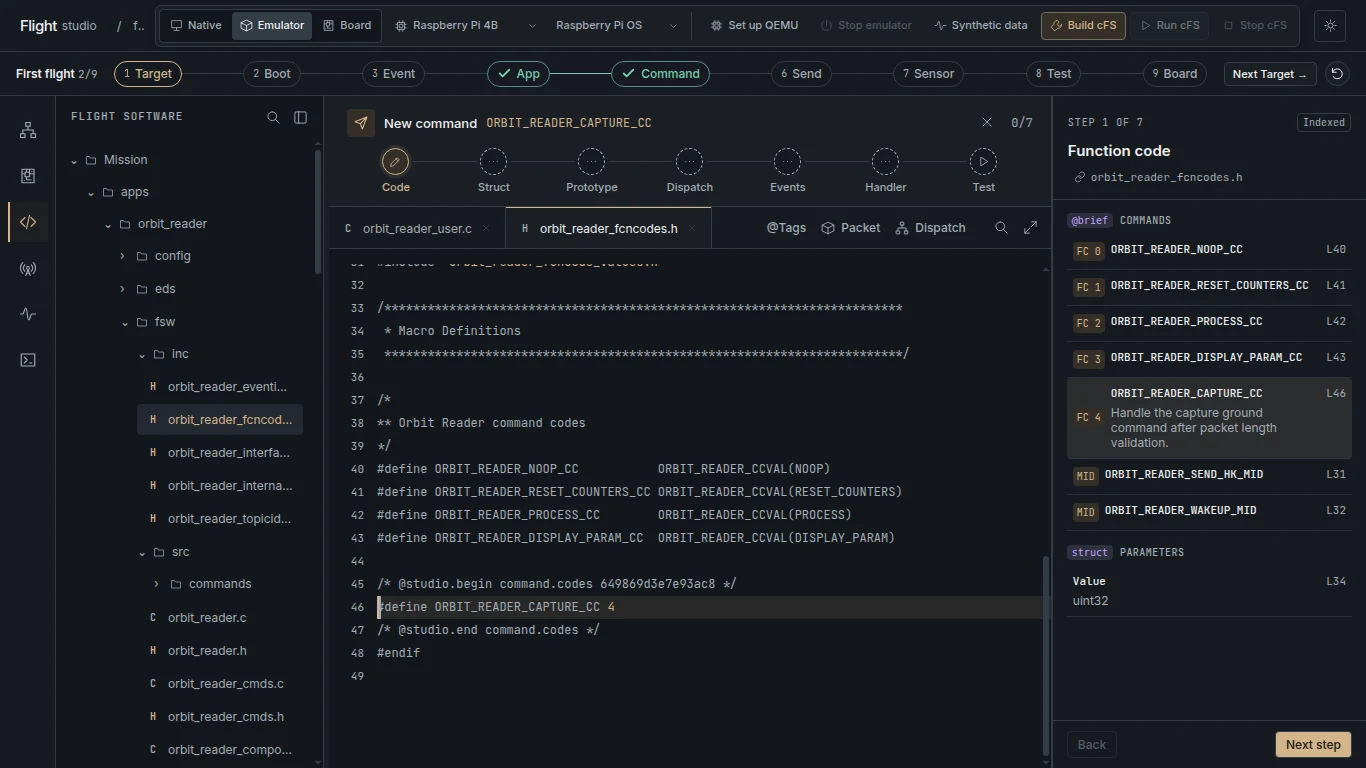
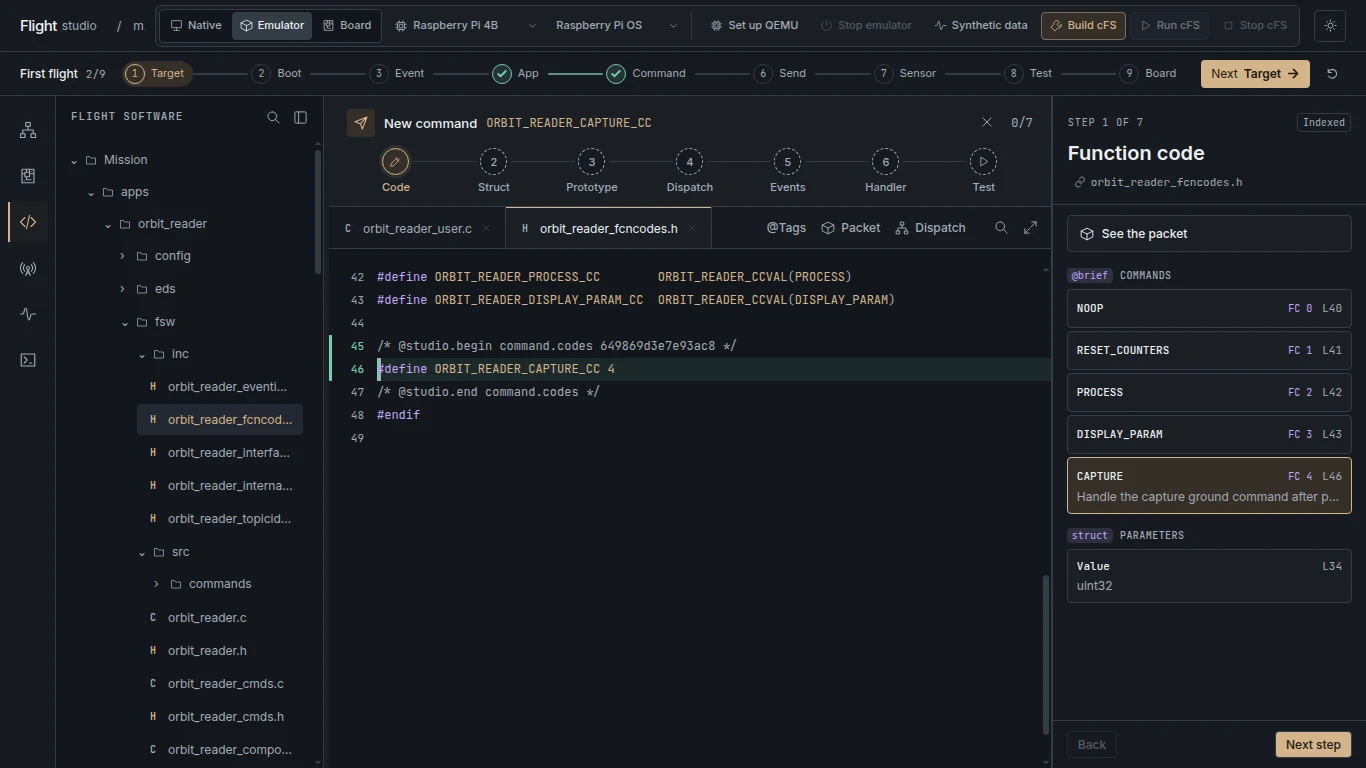
Guide authors to their command's actual lines and unimplemented handler

diff --git a/interface/static/source-guide.js b/interface/static/source-guide.js
@@ -77,7 +77,7 @@ export function commandContext(state) {
     if (!item || !sourcesFor(item).flat().some(ref=>ref.path===state.path)) return null;
   }
   if (!items.length) return null;
-  const selected=items.find(i=>selectKey(i)===state.sourceCommand) || items.find(i=>i.id===state.commandTask?.id && app.name===state.commandTask.app) || items[0];
+  const selected=items.find(i=>i.id===state.commandTask?.id && app.name===state.commandTask.app) || items.find(i=>selectKey(i)===state.sourceCommand) || items[0];
   const refs=sourcesFor(selected);
   const inferred=refs.findIndex(group=>group.some(ref=>ref.path===state.path));
   const explicit=state.sourceStep?.command===selectKey(selected) && state.sourceStep?.app===app.name;
@@ -95,7 +95,8 @@ export function syncCommandToFile(state, line) {
   const ctx=commandContext(state);
   if (!ctx) {state.sourceStep=null;return false;}
   const {app,items,selected}=ctx;
-  const ordered=[selected,...items.filter(i=>i!==selected)];
+  const active=state.commandTask?.app===app.name && state.commandTask.id===selected.id;
+  const ordered=active?[selected]:[selected,...items.filter(i=>i!==selected)];
   const matches=[];
   for(const item of ordered){
     sourcesFor(item).forEach((refs,index)=>refs.forEach(ref=>{
@@ -180,11 +181,15 @@ export function renderSourceGuide(state,esc) {
   const rows=tagGroup;
   let body='';
   if(step===0){
-    body+=rows('@brief','Commands',items.map(item=>{
+    body+='<button class="guide-shortcut" data-source-tab="packet">'+icon('cube')+'See the packet</button>';
+    body+=rows('@brief','Commands',items.filter(item=>item.handler?.cc || Number.isInteger(item.packet?.code)).map(item=>{
       const fn=item.handler?.cc, ref=fn?.source||item.packet?.locations?.identifier||item.route?.mid?.source;
       const note=annotationsFor(state,ref,item.handler?.annotations).find(a=>a.tag==='brief');
       const fc=fn?.value??item.packet?.code;
-      return jumpRow(ref,item.id,note?.value,esc,'data-select-source-command="'+esc(selectKey(item))+'" aria-current="'+(item===selected?'true':'false')+'"',Number.isInteger(fc)?'FC '+fc:'MID');
+      const prefix=app.name.toUpperCase()+'_';
+      const name=(item.id.startsWith(prefix)?item.id.slice(prefix.length):item.id).replace(/_CC$/,'');
+      const attrs=ref?'data-source-jump="'+esc(ref.path)+'" data-line="'+Number(ref.line)+'" aria-current="'+(item===selected)+'" title="'+esc(item.id)+'"':'';
+      return jumpRow(ref,name,note?.value,esc,attrs,Number.isInteger(fc)?'FC '+fc:'');
     }),esc)+rows('struct','Parameters',fieldRows(state,selected,esc),esc);
   }else if(step===1){
     body+=rows('struct','Packet type',[jumpRow(primary,h?.packet_type||packet?.struct||id,'',esc)],esc)+rows('field','Payload',fieldRows(state,selected,esc),esc);
@@ -197,9 +202,11 @@ export function renderSourceGuide(state,esc) {
     if(h?.handler)body+=rows('fn','Handler',[jumpRow(h.handler,h.handler.symbol,guideRef(h.handler),esc)],esc);
   }else if(step===4){
     const events=h?.events || [];
+    if(!events.length && h?.handler)body+='<button class="guide-shortcut" data-edit-handler>'+icon('edit')+'Edit event emission</button>';
     body+=rows('EVS','Emissions',events.map(event=>jumpRow(event.source,event.id.symbol,event.severity,esc)),esc);
     body+=rows('ID','Event definitions',events.filter(e=>e.id.source).map(e=>jumpRow(e.id.source,e.id.symbol,Number.isInteger(e.id.value)?String(e.id.value):e.id.expression,esc)),esc);
   }else if(step===5){
+    if(h?.handler)body+='<button class="guide-shortcut" data-edit-handler>'+icon('edit')+'Edit handler</button>';
     body+=rows('fn','Handler',refs[5].map(ref=>jumpRow(ref,ref.symbol,guideRef(ref),esc)),esc);
     for(const tag of ['brief','check'])body+=rows('@'+tag,tag==='brief'?'Description':'Checks',notes.filter(a=>a.tag===tag).map(a=>jumpRow(a,a.value,'',esc)),esc);
     body+=rows('EVS','Reports',(h?.events||[]).map(e=>jumpRow(e.source,e.id.symbol,e.severity,esc)),esc);
@@ -225,7 +232,7 @@ export function renderCommandTrail(state,esc) {
     '<button data-dismiss-command aria-label="Close activity">'+icon('close')+'</button><small class="task-count">'+count+'/7</small></div>'+
     '<nav aria-label="Command implementation">'+stepNames.map((name,i)=>{
       const available=complete(i),current=i===step;
-      return '<button type="button" data-guide-step="'+i+'" data-state="'+(available?'resolved':'pending')+'" '+(current?'aria-current="step" ':'')+'title="'+esc(name+' · '+(i===6?(test?'Test passed':'Ground Station'):available?guideRef(refs[i][0]):'Pending'))+'"><span class="trail-circle">'+icon(current?'edit':available?'check':i===6?'play':'more')+'</span><span>'+name+'</span></button>';
+      return '<button type="button" data-guide-step="'+i+'" data-state="'+(available?'resolved':'pending')+'" '+(current?'aria-current="step" ':'')+'title="'+esc(name+' · '+(i===6?(test?'Test passed':'Ground Station'):available?guideRef(refs[i][0]):'Pending'))+'"><span class="trail-circle">'+(current?icon('edit'):available?'<svg viewBox="0 0 16 16" class="fs-tick"><path pathLength="1" d="m3 8 3 3 7-7"/></svg>':i===6?icon('play'):i+1)+'</span><span>'+name+'</span></button>';
     }).join('')+'</nav>';
 }
 

diff --git a/interface/static/editor-guide.css b/interface/static/editor-guide.css
@@ -64,7 +64,7 @@ button.source-index-row:hover { background: var(--fs-raised); }
 .guide-step-title small,.guide-step-title>div>span {font:var(--fs-small) var(--fs-mono);color:var(--fs-muted)}
 .guide-step-title small {text-transform:uppercase;letter-spacing:.09em}
 .guide-step-title>div>span {padding:2px 5px;border:1px solid var(--fs-line);border-radius:var(--fs-radius-control)}
-.guide-step-title strong {font:600 var(--fs-heading) var(--fs-sans);color:var(--fs-text)}
+.guide-step-title strong {font:600 var(--fs-title) var(--fs-sans);color:var(--fs-text)}
 .guide-step-title>button {display:flex;align-items:center;gap:5px;width:fit-content;max-width:100%;font:var(--fs-caption) var(--fs-mono);color:var(--fs-muted);text-align:left;overflow-wrap:anywhere}
 .guide-step-title>button svg {width:12px;height:12px}
 .guide-section {margin:0 0 14px}
@@ -77,6 +77,21 @@ button.source-index-row:hover { background: var(--fs-raised); }
 .guide-body .source-index-row:has(em)>strong,.guide-body .source-index-row:has(em)>small {grid-column:2}
 .guide-body .source-index-row:has(em)>span {grid-column:3}
 .guide-body .source-index-row[aria-current=true] {background:color-mix(in srgb,var(--fs-accent) 9%,var(--fs-panel));border-radius:var(--fs-radius-control)}
+#source-guide .guide-shortcut {display:flex;align-items:center;width:100%;gap:8px;margin:0 0 16px;padding:10px 12px;border:1px solid var(--fs-line);border-radius:var(--fs-radius-control);color:var(--fs-text);background:var(--fs-panel);font:500 var(--fs-label) var(--fs-sans)}
+.guide-shortcut svg {width:14px;height:14px;stroke:var(--fs-blue)}
+#source-guide .source-index-row {padding:9px;margin-top:3px;border:1px solid var(--fs-line);border-radius:var(--fs-radius-control);background:var(--fs-panel)}
+#source-guide .source-index-row:hover,#source-guide .source-index-row[aria-current=true] {border-color:var(--fs-accent);background:var(--fs-accent-bg)}
+#source-guide .source-index-row>small {overflow:hidden;white-space:nowrap;text-overflow:ellipsis;color:var(--fs-muted)}
+#source-guide .source-index-row:has(em) {grid-template-columns:minmax(0,1fr) auto auto}
+#source-guide .source-index-row:has(em)>em {grid-column:2;grid-row:1;color:var(--fs-code);background:transparent}
+#source-guide .source-index-row:has(em)>strong {grid-column:1;grid-row:1}
+#source-guide .source-index-row:has(em)>small {grid-column:1/-1;grid-row:2}
+#source-guide .source-index-row:has(em)>span {grid-column:3;grid-row:1;align-self:center}
+.code-only:has(.command-trail:not([hidden])) :is(#code,.highlight-layer,#line-numbers) {padding-bottom:50vh}
+.code-only .token-directive {color:var(--fs-code)}
+.code-only .token-constant {color:var(--fs-accent)}
+.code-only #line-numbers b {display:inline-block;width:100%;box-sizing:border-box;border-left:3px solid var(--fs-success);color:var(--fs-success);font-weight:500}
+.code-only:has(.command-trail:not([hidden])) #source-line {border-color:var(--fs-success);background:color-mix(in srgb,var(--fs-success) 10%,transparent)}
 .guide-test {display:grid;gap:10px;justify-items:start}
 .guide-test code,.guide-object-name {font:var(--fs-label) var(--fs-mono);color:var(--fs-accent);overflow-wrap:anywhere}
 #source-inspector-dialog {position:fixed;inset:0;margin:auto;width:min(610px,calc(100vw - 32px));padding:0;border:1px solid var(--fs-line);background:var(--fs-panel);color:var(--fs-text);border-radius:var(--fs-radius-card);box-shadow:0 15px 70px var(--fs-shadow-5)}

diff --git a/interface/static/app.js b/interface/static/app.js
@@ -143,7 +143,20 @@ function syncScroll(){
   marker.style.top=((state.activeLine-1)*height-layer.scrollTop)+'px';
  }
 }
-function lineNumbers(){const value=$('#code').value;$('#line-numbers').textContent=Array.from({length:value.split('\n').length},(_,i)=>i+1).join('\n');$('#highlight-code').innerHTML=highlight(value,state.path||'');syncScroll();}
+function lineNumbers(){
+ const value=$('#code').value, gutter=$('#line-numbers');
+ const file=state.files.get(state.path), edit=state.commandTask?.changes?.[state.path];
+ const ranges=file && edit && file.hash===edit.hash && value===file.saved ? edit.ranges : [];
+ const count=value.split('\n').length;
+ if(ranges.length){
+  const marked=new Set();
+  for(const [start,end] of ranges)for(let n=start;n<=end;n++)marked.add(n);
+  gutter.innerHTML=Array.from({length:count},(_,i)=>marked.has(i+1)?'<b title="Added by this command">'+(i+1)+'</b>':i+1).join('\n');
+ }else{
+  gutter.textContent=Array.from({length:count},(_,i)=>i+1).join('\n');
+ }
+ $('#highlight-code').innerHTML=highlight(value,state.path||'');syncScroll();
+}
 async function saveFile(path) {
  const file=state.files.get(path);
  if(!file?.editable)return;
@@ -601,7 +614,7 @@ function newCodeCommand(preferred) {
   const start = handler?.cc?.source || handler?.handler;
   const path = start?.path || result.changed.find(path => path.endsWith('/'+app+'_'+name+'_cmd.c'));
   state.sourceCommand=id+'/'+(route?.mid?.value ?? '');
-  state.commandTask={app,id,reviewed:[]};
+  state.commandTask={app,id,reviewed:[],changes:result.source_changes};
   state.catalogTarget=null;
   await selectView('code',path,start?.line || 1);
   refreshJourney();
@@ -1160,6 +1173,18 @@ document.addEventListener('click',guarded(async e=>{
   await openGroundRoute(app,id);
  }
  else if ('codeCommand' in d) newCodeCommand(d.codeCommand);
+ else if('editHandler' in d){
+  const handler=commandContext(state)?.selected.handler;
+  const ref=handler?.edit_source || handler?.handler;
+  if(!ref)return;
+  await openFile(ref.path,ref.line);
+  const editor=$('#code');
+  if(handler.edit_source && state.path===ref.path && state.files.get(ref.path)?.content===state.files.get(ref.path)?.saved){
+   const start=editor.selectionStart,end=editor.value.indexOf('\n', start);
+   editor.setSelectionRange(start,end<0?editor.value.length:end);
+  }
+  editor.focus({preventScroll:true});
+ }
  else if(d.selectSourceCommand){await chooseSourceCommand(d.selectSourceCommand);}
  else if('guideStep' in d || 'stepMove' in d){
   const ctx=commandContext(state);if(!ctx)return;
@@ -1169,7 +1194,7 @@ document.addEventListener('click',guarded(async e=>{
   }
   state.sourceCommand=command;
   state.sourceStep={app:ctx.app.name,command,index};
-  const ref=ctx.refs[index]?.[0];
+  const ref=(index===5 || index===4 && !ctx.refs[4].length) && ctx.selected.handler?.edit_source || ctx.refs[index]?.[0];
   if(ref)await openFile(ref.path,ref.line);
   if(index===6){
    const snapshot=await api('ground');

diff --git a/project/manage.py b/project/manage.py
@@ -3,6 +3,8 @@
 
 import argparse
 import copy
+from difflib import SequenceMatcher
+import hashlib
 import json
 from pathlib import Path
 import sys
@@ -124,6 +126,24 @@ def commit(root, files, check=False, library_names=(), mutable_libraries=(), val
                 parent.rmdir()
                 parent = parent.parent
     return changed
+
+
+def command_source_changes(root, plan, app):
+    """Capture only lines introduced by this command in its owning app."""
+    result = {}
+    prefix = f"mission/apps/{app}/"
+    for relative, content in plan.items():
+        if not relative.startswith(prefix) or Path(relative).suffix not in {".c", ".h"} or content is None:
+            continue
+        path = safe_path(root, relative)
+        previous = path.read_text() if path.exists() else ""
+        if previous == content:
+            continue
+        delta = SequenceMatcher(None, previous.splitlines(), content.splitlines(), autojunk=False)
+        ranges = [[start + 1, end] for kind, _, _, start, end in delta.get_opcodes() if start < end and kind != "equal"]
+        if ranges:
+            result[relative] = {"hash": hashlib.sha256(content.encode()).hexdigest(), "ranges": ranges}
+    return result
 
 
 def registry_app(config, name):
@@ -352,10 +372,12 @@ def run(args):
         plan[STARTUP] = render_startup(active, [entry for entry in archived if entry.name != args.app])
     if args.action not in ("sync", "check"):
         plan["project/config.json"] = json.dumps(config, indent=2) + "\n"
+    changes = command_source_changes(root, plan, args.app) if args.action == "add-command" else None
     changed = commit(root, plan, check=args.action == "check")
     result = {"changed": changed, "deleted": [path for path, content in plan.items() if content is None],
               "check": args.action == "check"}
     if args.action == "add-command":
+        result["source_changes"] = changes
         result["implementation"] = "Command handler is a user-code stub; use locate to implement it"
     return result, 1 if args.action == "check" and changed else 0
 

diff --git a/interface/tests/test_editor_trail.py b/interface/tests/test_editor_trail.py
@@ -1,11 +1,40 @@
+import hashlib
 import tempfile
 import unittest
 from pathlib import Path
 
+from interface.backend.workspace import nasa_module_title
+from project.manage import command_source_changes
 from interface.backend.architecture_details import Constants, _calls, _command_sources, _read, _ref
 
 
 class EditorTrailTests(unittest.TestCase):
+    def test_generated_diff_only_marks_actual_command_changes(self):
+        with tempfile.TemporaryDirectory() as directory:
+            root = Path(directory)
+            module = root / "mission/apps/reader"
+            module.mkdir(parents=True)
+            header = "mission/apps/reader/ids.h"
+            (root / header).write_text("first\nlast\n")
+            fresh = "mission/apps/reader/sense.c"
+            plan = {header: "first\nsense\nlast\n", fresh: "one\ntwo\n", "project/config.json": "{}"}
+            changes = command_source_changes(root, plan, "reader")
+            self.assertEqual(changes[header]["ranges"], [[2, 2]])
+            self.assertEqual(changes[fresh]["ranges"], [[1, 2]])
+            self.assertEqual(changes[fresh]["hash"], hashlib.sha256(plan[fresh].encode()).hexdigest())
+            self.assertEqual(set(changes), {header, fresh})
+
+    def test_upstream_module_titles_use_the_checkout(self):
+        with tempfile.TemporaryDirectory() as directory:
+            module = Path(directory)
+            self.assertEqual(nasa_module_title(module), "")
+            for heading, expected in [
+                ("# core Flight System (cFS) Housekeeping Application (HK)", "Housekeeping"),
+                ("# Core Flight System : Framework : App : Command Ingest Lab", "Command Ingest Lab"),
+            ]:
+                (module / "README.md").write_text("badge\n\n" + heading + "\n\nDescription")
+                self.assertEqual(nasa_module_title(module), expected)
+
     def test_prototypes_tags_and_evs_come_from_the_handlers_real_c(self):
         with tempfile.TemporaryDirectory() as directory:
             root = Path(directory)

diff --git a/interface/backend/architecture_details.py b/interface/backend/architecture_details.py
@@ -542,7 +542,10 @@ def describe_application(app, *, root):
             candidate = {'handler': _fnref(fn), 'via': via, **packet_record(typ[1] if typ else None)}
             handler_file = files[fn['path']]
             first, last = _bounds(handler_file, fn)
-            candidate['placeholder'] = bool(re.search(r'\breturn\s+CFE_STATUS_NOT_IMPLEMENTED\s*;', handler_file['mask'][first:last]))
+            stub = re.search(r'\breturn\s+CFE_STATUS_NOT_IMPLEMENTED\s*;', handler_file['mask'][first:last])
+            candidate['placeholder'] = bool(stub)
+            if stub:
+                candidate['edit_source'] = _ref(handler_file, first + stub.start(), fn['symbol'])
             fallback = fallback or candidate
             if typ:
                 return candidate
